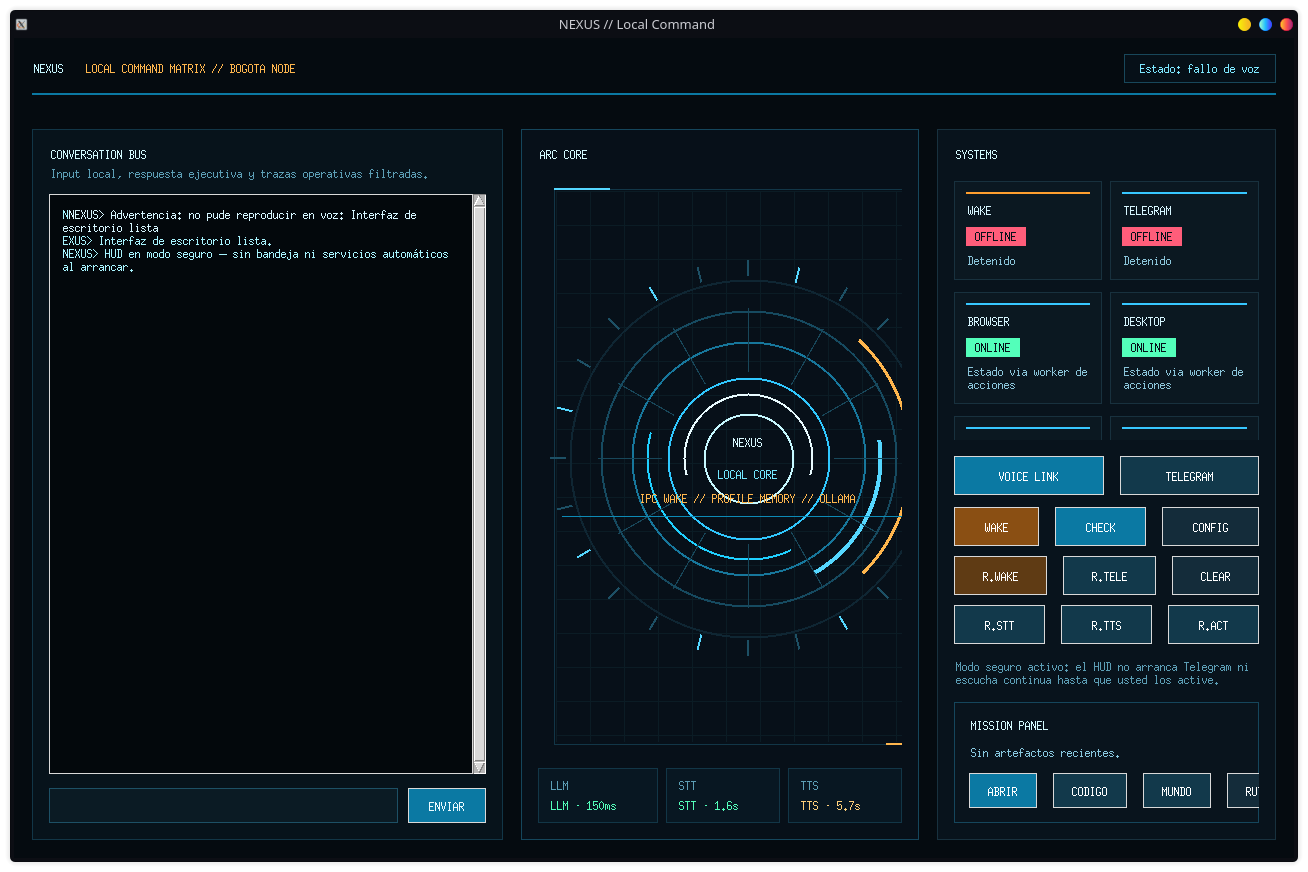
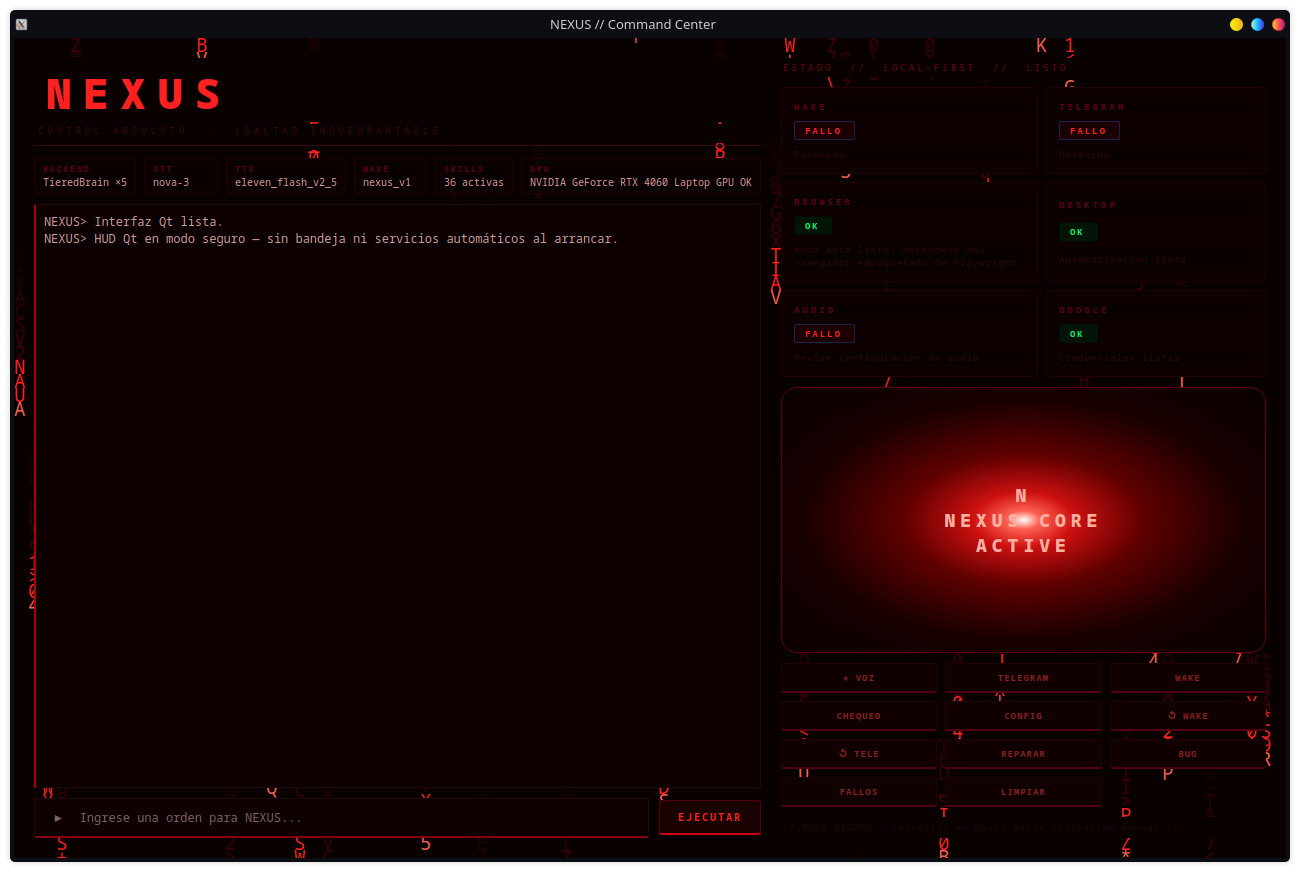
Update HUD screenshot and description to the real Qt implementation
The Qt HUD is now the actual default (was previously an alternate
build alongside a tkinter version). Replaced the screenshot with a
genuine capture and described what it actually renders: a live backend
status bar (LLM tier count, STT/TTS models, wake model, skill count,
GPU) read at runtime, plus an animated red "digital rain" background
behind the panels, matching the void-black/blood-red identity beyond
just the color palette.

diff --git a/README.md b/README.md
@@ -41,7 +41,7 @@ NEXUS is used daily as an actual productivity and system-management layer, not a
 | Cloned voice (primary) + local fallback | Active — low-latency streaming synthesis, automatic local fallback |
 | Natural language routing | Active — any phrasing, 15+ NL categories, voice and Telegram |
 | Desktop HUD | Active — native control center, subsystem status cards, system tray integration |
-| Skills system | Active — 26 auto-discovered skills (media, focus, GPU monitor, notes, weather, resource manager, dev workflow, security monitor, code generator…) |
+| Skills system | Active — 36 auto-discovered skills (media, focus, GPU monitor, notes, weather, resource manager, dev workflow, security monitor, code generator, personal automation…) |
 | Autonomous desktop agent | Active — vision + input, up to 25 steps, allowlisted for safety |
 | Meeting agent | Active — join + virtual mic + live transcript + summary |
 | Proactive monitor | Active — calendar, email, system resources, morning briefing |
@@ -69,15 +69,15 @@ NEXUS is used daily as an actual productivity and system-management layer, not a
 
 ## Desktop HUD
 
-The operator console is a native desktop control center that runs alongside the voice pipeline.
+The operator console is a native desktop control center that runs alongside the voice pipeline — void-black background, blood-red accents, an animated red "digital rain" effect behind the panels.
 
 ![NEXUS desktop HUD](assets/nexus_hud.png)
 
 **What it shows:**
 - Real-time conversation log (user and NEXUS turns)
+- A live backend bar — active LLM tier count, current STT and TTS models, wake word model, number of loaded skills, GPU status — read directly from configuration and hardware at runtime, not hardcoded
 - An animated status core for the local pipeline
 - Status cards for each subsystem — wake word listener, Telegram bot, browser automation, desktop automation, audio devices, Google credentials
-- Live STT / LLM / TTS latency tiles, color-coded when a stage exceeds its expected threshold
 - System tray integration for quick access without keeping a window open
 
 Detailed system resource usage (CPU/RAM/disk/GPU) is queried on demand through voice or Telegram (`estado del sistema`, `cómo está el equipo`) rather than rendered as a permanent gauge in the HUD.
@@ -86,7 +86,7 @@ Detailed system resource usage (CPU/RAM/disk/GPU) is queried on demand through v
 
 ## Skills System
 
-26 capabilities are packaged as self-contained skills, auto-discovered at startup with no manual registration. Each skill declares its own triggers and handles its own execution context.
+36 capabilities are packaged as self-contained skills, auto-discovered at startup with no manual registration. Each skill declares its own triggers and handles its own execution context.
 
 Examples:
 
@@ -258,7 +258,7 @@ See [docs/ARCHITECTURE.md](docs/ARCHITECTURE.md) for the full breakdown.
 | Assistant | Orchestrates STT → LLM → actions → TTS, manages state |
 | TieredBrain | Five-level LLM with circuit breaker and token streaming |
 | Voice | Capture, barge-in VAD, custom wake word, primary + fallback TTS |
-| Skills | 26 auto-discovered skill plugins |
+| Skills | 36 auto-discovered skill plugins |
 | Actions | Central router — NL normalization, Daily OS, Google, meetings, system, guarded power control |
 | SecurityWatcher | Passive anomaly detection — processes, ports, USB, auth failures |
 | Resource manager | CPU/RAM priority profiles per activity |

diff --git a/docs/ARCHITECTURE.md b/docs/ARCHITECTURE.md
@@ -125,12 +125,12 @@ Switches CPU/RAM scheduling priority between profiles (work, streaming, focus, n
 
 ### HUD (Desktop)
 
-A native control center that runs alongside the voice pipeline:
+A native control center that runs alongside the voice pipeline, styled after the same void-black/blood-red identity used throughout, with an animated red "digital rain" background behind the panels:
 
 - real-time conversation log
+- a live backend bar (LLM tier count, STT/TTS models, wake model, skill count, GPU status) read from configuration and hardware at runtime
 - an animated status core for the local pipeline
 - status cards per subsystem (audio, Telegram, wake word, browser automation, desktop automation, Google credentials)
-- live STT/LLM/TTS latency tiles, color-coded when a stage exceeds its expected threshold
 - system tray integration
 
 Detailed system resource usage (CPU, RAM, disk, GPU) is queried on demand through voice or Telegram rather than rendered as a permanent HUD gauge.